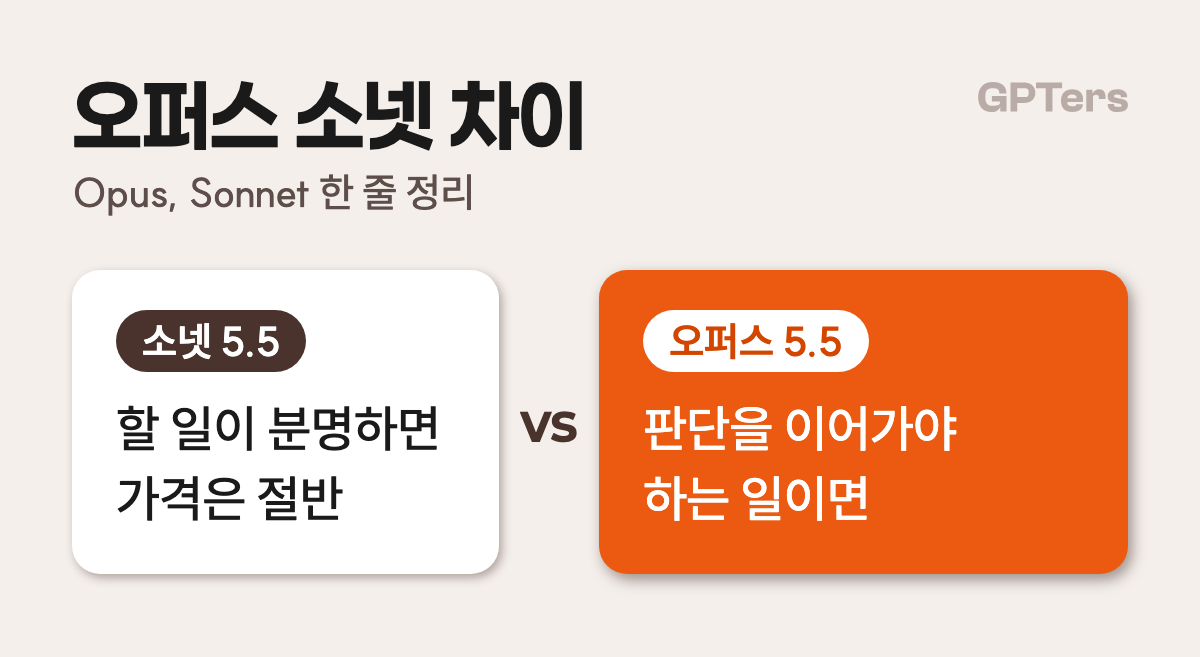
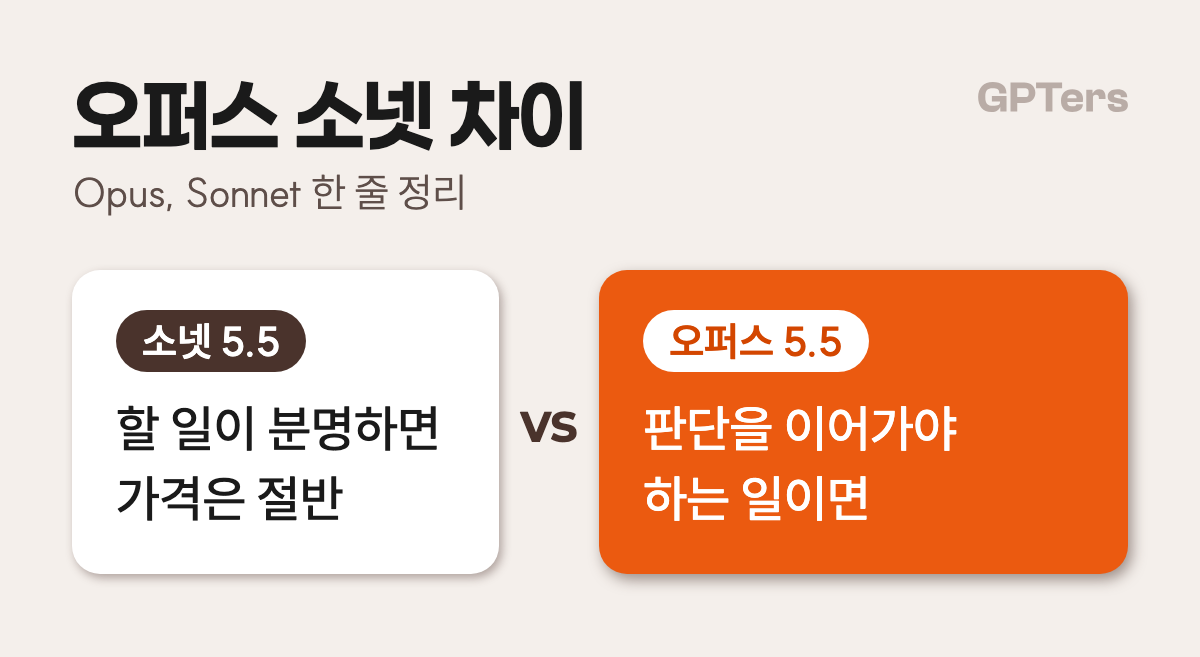
굵기 위계 700→500→300 확정: 숫자·부제·설명 SUIT 300, 예시 다시 렌더

Changed region(s): [[0.0617, 0.2435, 0.4008, 0.3349]]

diff --git a/assets/examples/card-compare-2x2.html b/assets/examples/card-compare-2x2.html
@@ -1,17 +1,17 @@
-<!doctype html><html><head><meta charset="utf-8"><style>@font-face{font-family:Paperlogy;font-weight:700;src:url(../fonts/Paperlogy-7Bold.ttf)}
+<!doctype html><html><head><meta charset="utf-8"><style>@font-face{font-family:SUIT;font-weight:300;src:url(../fonts/SUIT-Light.otf)}@font-face{font-family:Paperlogy;font-weight:700;src:url(../fonts/Paperlogy-7Bold.ttf)}
 @font-face{font-family:Paperlogy;font-weight:500;src:url(../fonts/Paperlogy-5Medium.ttf)}
 @font-face{font-family:SUIT;font-weight:500;src:url(../fonts/SUIT-Medium.woff2)}
 @font-face{font-family:SUIT;font-weight:700;src:url(../fonts/SUIT-Bold.woff2)}
 *{box-sizing:border-box}body{margin:0;background:#F4EFEB;color:#1A1A1A}
 .art{width:1200px;padding:68px 72px 83px;position:relative}
 h1{margin:0;font:700 80px/1.2 Paperlogy;letter-spacing:-.02em}
-.sub{margin-top:2px;font:500 40px/1.3 SUIT;color:#5E4E49;letter-spacing:-.01em}
+.sub{margin-top:2px;font:300 40px/1.3 SUIT;color:#5E4E49;letter-spacing:-.01em}
 .g{display:grid;grid-template-columns:1fr 1fr;gap:32px 36px;margin-top:52px}
 .card{background:#fff;border:none;box-shadow:var(--s);border-radius:28px;height:184px;padding:0 44px;display:flex;flex-direction:column;justify-content:center;align-items:center;text-align:center;gap:10px}
 .card.on{background:#EB5A10;box-shadow:var(--so)}
 .top{display:flex;justify-content:center;align-items:baseline;gap:16px}
-b{font:500 62px/1.15 Paperlogy;color:#1A1A1A} i{font:500 50px SUIT;font-style:normal;color:#988680}
-s{text-decoration:none;font:500 40px SUIT;color:#988680}
+b{font:500 62px/1.15 Paperlogy;color:#1A1A1A} i{font:300 50px SUIT;font-style:normal;color:#988680}
+s{text-decoration:none;font:300 40px SUIT;color:#988680}
 .on b,.on i{color:#fff}.on s{color:#FFD9C6}
 .hd{display:flex;justify-content:space-between;align-items:flex-start}.lg{width:150px;flex:none;margin-top:13.6px}</style></head><body><div class="art" id="a" style="--s:3px 4px 10px rgba(74,51,44,.40);--so:4px 6px 14px rgba(74,51,44,.50)">
 <div class="hd"><h1>클로드 모델별 차이</h1><img class="lg" src="../logo/wordmark-gray-warm.svg"></div><div class="sub">Fable, Opus, Sonnet, Haiku 비교</div><div class="g"><div class="card"><div class="top"><b>페이블</b><i>5.1</i></div><s>가장 똑똑함</s></div><div class="card on"><div class="top"><b>오퍼스</b><i>5.5</i></div><s>공식 추천</s></div><div class="card"><div class="top"><b>소넷</b><i>5.5</i></div><s>빠르고 균형</s></div><div class="card"><div class="top"><b>하이쿠</b><i>5.5</i></div><s>싸고 빠름</s></div></div></div></body></html>

diff --git a/assets/examples/card-formats.html b/assets/examples/card-formats.html
@@ -1,4 +1,4 @@
-<!doctype html><html><head><meta charset="utf-8"><style>@font-face{font-family:Paperlogy;font-weight:500;src:url(../fonts/Paperlogy-5Medium.ttf)}
+<!doctype html><html><head><meta charset="utf-8"><style>@font-face{font-family:SUIT;font-weight:300;src:url(../fonts/SUIT-Light.otf)}@font-face{font-family:Paperlogy;font-weight:500;src:url(../fonts/Paperlogy-5Medium.ttf)}
 @font-face{font-family:Paperlogy;font-weight:700;src:url(../fonts/Paperlogy-7Bold.ttf)}
 @font-face{font-family:SUIT;font-weight:500;src:url(../fonts/SUIT-Medium.woff2)}
 @font-face{font-family:SUIT;font-weight:700;src:url(../fonts/SUIT-Bold.woff2)}
@@ -7,12 +7,12 @@
 .hd{display:flex;justify-content:space-between;align-items:flex-start}
 .lg{width:150px;flex:none;margin-top:13.6px}
 h1{margin:0;font:700 80px/1.2 Paperlogy;letter-spacing:-.02em}
-.sub{margin-top:2px;font:500 40px/1.3 SUIT;color:#5E4E49;letter-spacing:-.01em}
+.sub{margin-top:2px;font:300 40px/1.3 SUIT;color:#5E4E49;letter-spacing:-.01em}
 .card{background:#fff;border-radius:28px;box-shadow:3px 4px 10px rgba(74,51,44,.40)}
 .card.on{background:#EB5A10;box-shadow:4px 6px 14px rgba(74,51,44,.50)}
 b{font-weight:500} s{text-decoration:none} i{font-style:normal}
 .on b,.on i,.on q{color:#fff!important} .on s{color:#FFE7DA!important}
-.cap{font:500 40px SUIT;color:#988680}
+.cap{font:300 40px SUIT;color:#988680}
 /* steps */
 .st{display:flex;align-items:center;justify-content:space-between;margin-top:88px}
 .st .card{position:relative;width:206px;height:200px;display:flex;flex-direction:column;align-items:center;justify-content:center;gap:10px;padding-top:18px}
